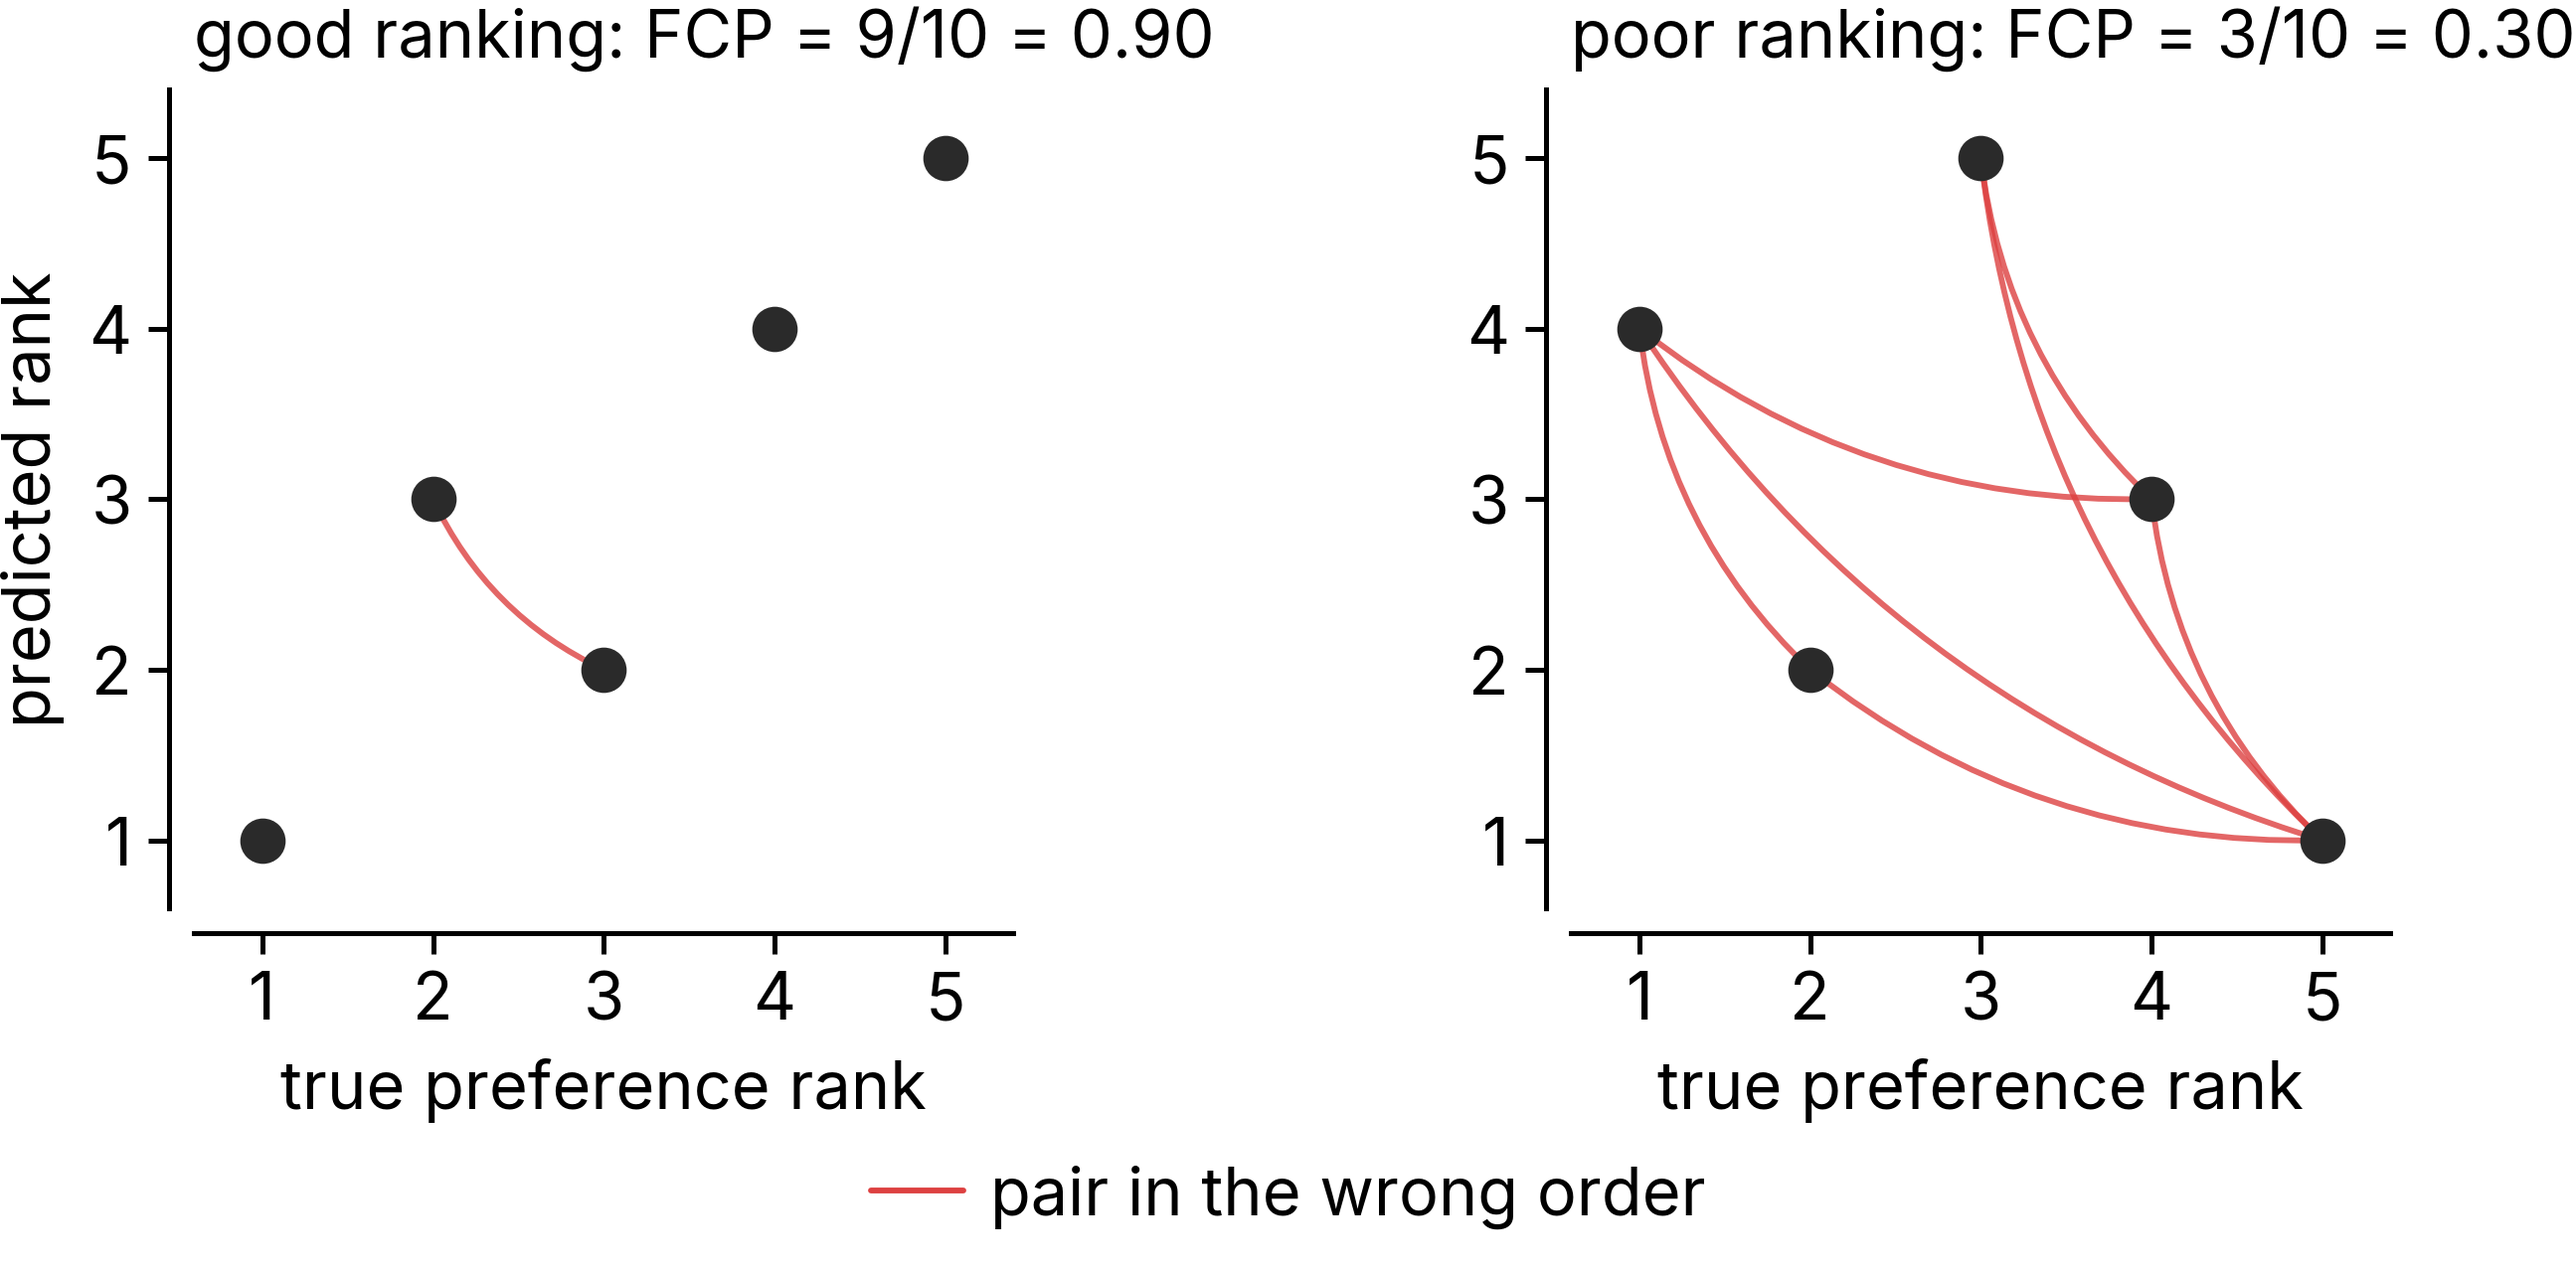
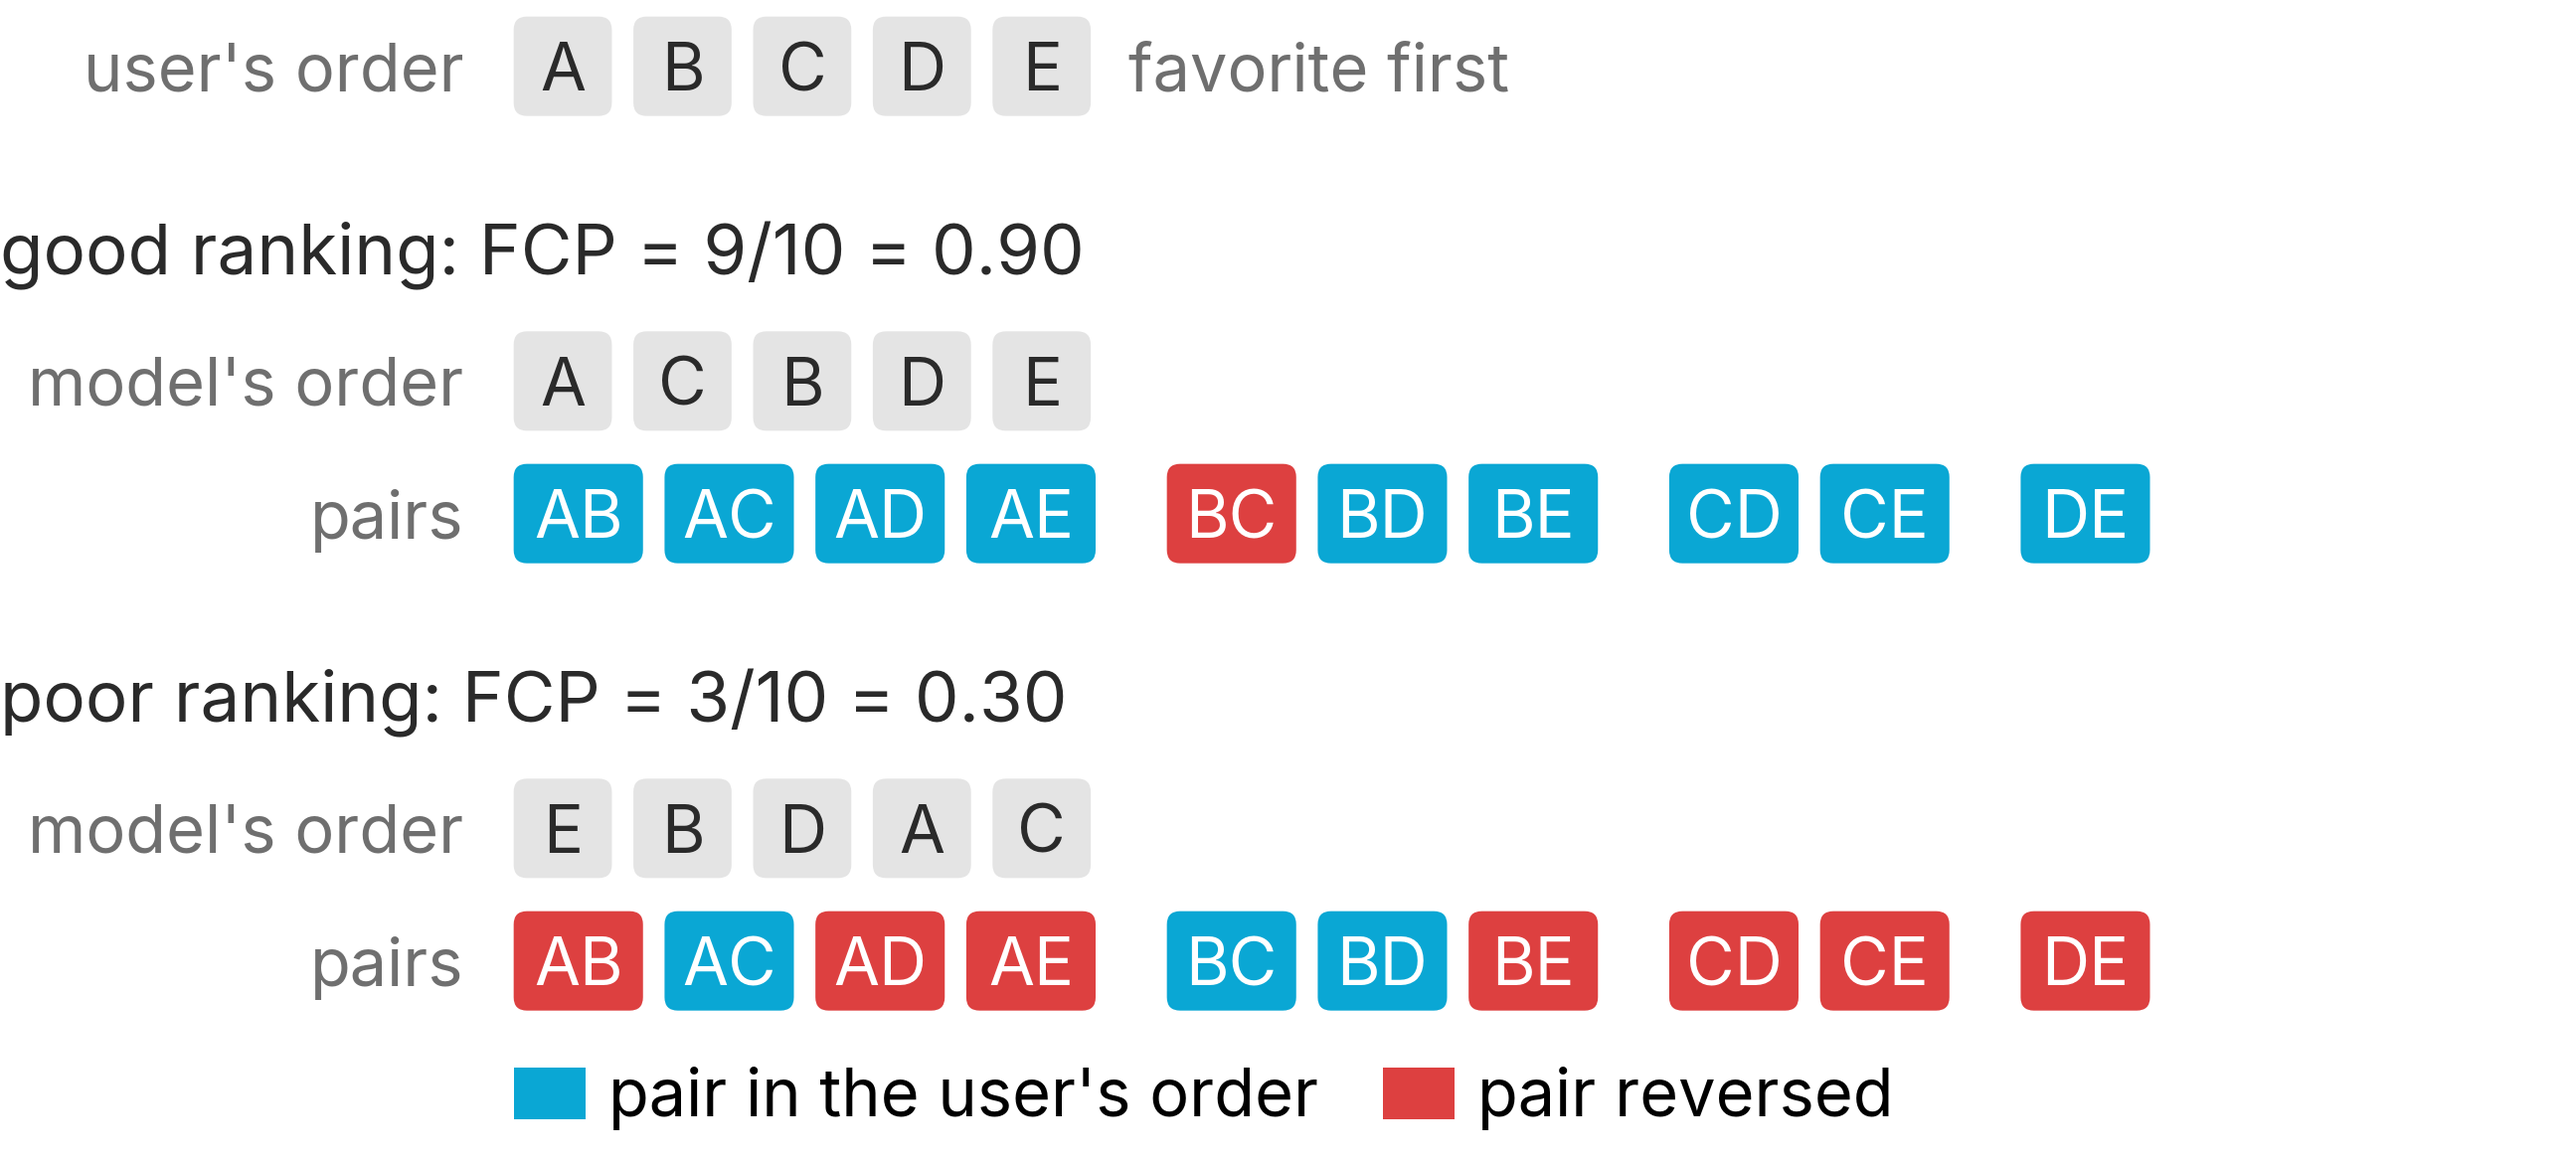
Show all ten pairs in the FCP figure

diff --git a/notebooks/ranking_figures.py b/notebooks/ranking_figures.py
@@ -4,6 +4,7 @@ CG and DCG use one list and one color mapping (CG purple, DCG cyan); relevant
 items are cyan throughout. Every printed number is computed here.
 Run: uv run python notebooks/ranking_figures.py [NAME ...]
 """
+import itertools
 import sys
 from pathlib import Path
 sys.path.insert(0, str(Path(__file__).resolve().parent))
@@ -13,7 +14,7 @@ import matplotlib
 matplotlib.use('Agg')
 import matplotlib.colors as mcolors
 from matplotlib.lines import Line2D
-from matplotlib.patches import Rectangle
+from matplotlib.patches import FancyBboxPatch, Patch, Rectangle
 from style import *  # noqa: F401,F403
 
 CG_COLOR, DCG_COLOR = NML_PURPLE, NML_CYAN
@@ -238,36 +239,65 @@ def ndcg_degradation():
 
 # ===========================================================================
 def fcp():
-    true = np.array([1, 2, 3, 4, 5])
-    panels = [('good ranking', np.array([1, 3, 2, 4, 5])), ('poor ranking', np.array([4, 2, 5, 3, 1]))]
-    fig, axes = book_figure(1.0, 2.15, 1, 2)
-    for ax, (name, pred) in zip(axes, panels):
-        conc = disc = 0
-        for i in range(5):
-            for j in range(i + 1, 5):
-                if (true[i] - true[j]) * (pred[i] - pred[j]) > 0:
-                    conc += 1
-                else:
-                    disc += 1
-                    # gentle arcs, so pairs whose points are collinear stay distinct
-                    ax.annotate('', xy=(true[j], pred[j]), xytext=(true[i], pred[i]), zorder=1,
-                                arrowprops=dict(arrowstyle='-', color=NML_RED, lw=LW_THIN, alpha=0.8,
-                                                shrinkA=0, shrinkB=0, connectionstyle='arc3,rad=0.18'))
-        f = conc / (conc + disc)
-        ax.scatter(true, pred, s=30, color=INK, zorder=3, linewidths=0)
-        ax.set_title(f'{name}: FCP = {conc}/{conc + disc} = {num(f)}', loc='left', fontsize=TEXT_PT)
-        ax.set_xlim(0.6, 5.4)
-        ax.set_ylim(0.6, 5.4)
-        ax.set_xticks(range(1, 6))
-        ax.set_yticks(range(1, 6))
-        ax.set_aspect('equal')
-        ax.set_xlabel('true preference rank')
-        tidy_axes(ax)
-        print(f'FCP {name}: {conc}/{conc + disc}')
-    axes[0].set_ylabel('predicted rank')
-    fig.legend(handles=[Line2D([], [], color=NML_RED, lw=LW_THIN, label='pair in the wrong order')],
-               loc='outside lower center')
-    save_figure(fig, 'FCP_comparison')
+    """Every pair of five items, checked against the user's order."""
+    items = 'ABCDE'                                   # the user's order, favorite first
+    rankers = [('good ranking', 'ACBDE'), ('poor ranking', 'EBDAC')]
+    pairs = list(itertools.combinations(items, 2))    # AB, AC, ..., DE: ten pairs
+    pad, gap, group_gap, label_x = 2.0, 2.6, 6.0, 56
+    fig = book_canvas(1.0, 1.95)
+    W, H = fig.get_figwidth() * 72, fig.get_figheight() * 72
+    ax = fig.add_axes([0, 0, 1, 1])
+    ax.set_xlim(0, W)
+    ax.set_ylim(0, H)
+    bare_axes(ax)
+    renderer = fig.canvas.get_renderer()
+
+    def width(s):
+        t = ax.text(0, 0, s, fontsize=TEXT_PT)
+        w = t.get_window_extent(renderer).width * 72 / fig.dpi
+        t.remove()
+        return w
+
+    item_w = max(width(c) for c in items) + 2 * pad + 2
+    pair_w = max(width(a + b) for a, b in pairs) + 2 * pad
+
+    def chip(x, y, s, face, w, ink=INK):
+        h = TEXT_PT + 2 * pad
+        ax.add_patch(FancyBboxPatch((x, y - h / 2), w, h, boxstyle='round,pad=0,rounding_size=1.6',
+                                    facecolor=face, edgecolor='none'))
+        ax.text(x + w / 2, y, s, ha='center', va='center_baseline', color=ink)
+
+    def order_row(y, label, order):
+        ax.text(label_x, y, label, ha='right', va='center_baseline', color=MUTED)
+        for k, c in enumerate(order):
+            chip(label_x + 6 + k * (item_w + gap), y, c, '#e4e4e4', item_w)
+
+    x0 = label_x + 6
+    y = H - 8
+    order_row(y, "user's order", items)
+    ax.text(x0 + 5 * (item_w + gap) + 2, y, 'favorite first', va='center_baseline', color=MUTED)
+    for name, order in rankers:
+        position = {c: k for k, c in enumerate(order)}
+        right = [position[a] < position[b] for a, b in pairs]
+        y -= 22
+        ax.text(0, y, f'{name}: FCP = {sum(right)}/{len(pairs)} = {num(sum(right) / len(pairs))}',
+                va='center_baseline', color=INK, fontsize=TITLE_PT)
+        y -= 16
+        order_row(y, "model's order", order)
+        y -= 16
+        ax.text(label_x, y, 'pairs', ha='right', va='center_baseline', color=MUTED)
+        x = x0
+        for k, ((a, b), ok) in enumerate(zip(pairs, right)):
+            if k and a != pairs[k - 1][0]:
+                x += group_gap                        # group the pairs by their first item
+            chip(x, y, a + b, NML_CYAN if ok else NML_RED, pair_w, 'white')   # as the NLP token figures
+            x += pair_w + gap
+        print(f'FCP {name}: {sum(right)}/{len(pairs)}')
+    fig.legend(handles=[Patch(color=NML_CYAN, label="pair in the user's order"),
+                        Patch(color=NML_RED, label='pair reversed')],
+               loc='lower left', bbox_to_anchor=(x0 / W - 0.012, 0.0), ncol=2,
+               handlelength=1.0, columnspacing=1.0, borderaxespad=0.1)
+    save_figure(fig, 'FCP_comparison', crop=False)
     plt.close(fig)
 
 

diff --git a/book/5-ranking.tex b/book/5-ranking.tex
@@ -470,7 +470,7 @@ Use FCP when recovering preference order matters more than matching rating value
     \includegraphics[width=\textwidth]{figures/FCP_comparison.png}
 \end{metricfigure}
 
-\metriccaption{Figure. FCP.}{Two rankers order the same five items, giving ten pairs to compare. The left ranker gets nine pairs right: only the order of items $2$ and $3$ is reversed, so FCP is $0.90$. The right ranker gets three pairs right, giving $0.30$. Red lines join the pairs ranked in the wrong order; FCP counts the pairs, not how close the points sit to a diagonal.}
+\metriccaption{Figure. FCP.}{Two rankers order five items that the user prefers in the order $A$ to $E$. Five items make ten pairs, and each box below a ranker is one pair: cyan if the ranker keeps the user's order, red if it reverses it. The good ranker swaps only $B$ and $C$, so nine of ten pairs are in order and FCP is $0.90$. The poor ranker reverses seven pairs, giving $0.30$.}
 
 \orangebox{Did you know that...}
 {For two rankings without ties, FCP and Kendall's tau express the same pairwise agreement on different scales: $\tau = 2 \cdot FCP - 1$. FCP ranges from $0$ to $1$, while tau ranges from $-1$ to $1$. The identity does not generally hold for tie-adjusted versions such as Kendall's tau-b.}
